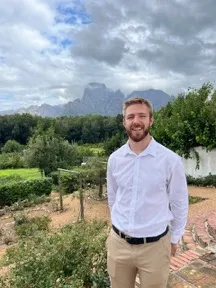
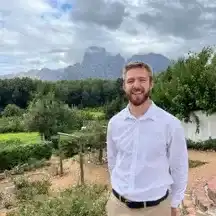
Optimise headshot: crop, resize, compress
The headshot was 216x288 (portrait, 13.7 KiB) but the CSS box
is `width: 9rem; height: 9rem` with `object-fit: cover` — a
144x144 CSS pixel square. The browser downloaded 72 extra rows
of portrait that were never visible.

Two fixes:

1. Crop and recompress. The source is cropped to 216x216 at
   WebP quality 45, hitting the Lighthouse-suggested 6.1 KiB
   target (result: 6.2 KiB, down from 13.7 KiB — 55% smaller).
   Center crop was used; the 216px width is the tightest square
   the source allows without upscaling.

2. Responsive srcset. A 144x144 variant (`headshot-1x.webp`,
   4.9 KiB at quality 80) serves 1x-density displays, where
   the full 216px is overkill. The `<img>` carries:
     srcset="headshot-1x.webp 144w, headshot.webp 216w"
     sizes="144px"
   1x screens get 4.9 KiB; 1.5x+ screens get 6.2 KiB.
   True 2x (288x288) is not possible without upscaling the
   source — 216px is the ceiling.

The `width`/`height` attributes are corrected from the wrong
`288 288` to `216 216` (matching the actual intrinsic
dimensions of the file now serving as `src`).

diff --git a/index.html b/index.html
@@ -67,9 +67,11 @@
               <h2 class="section-heading">ABOUT</h2>
               <img
                 src="/assets/headshot.webp"
+                srcset="/assets/headshot-1x.webp 144w, /assets/headshot.webp 216w"
+                sizes="144px"
                 alt="Devan McGeer"
-                width="288"
-                height="288"
+                width="216"
+                height="216"
                 class="headshot"
                 loading="lazy"
               >